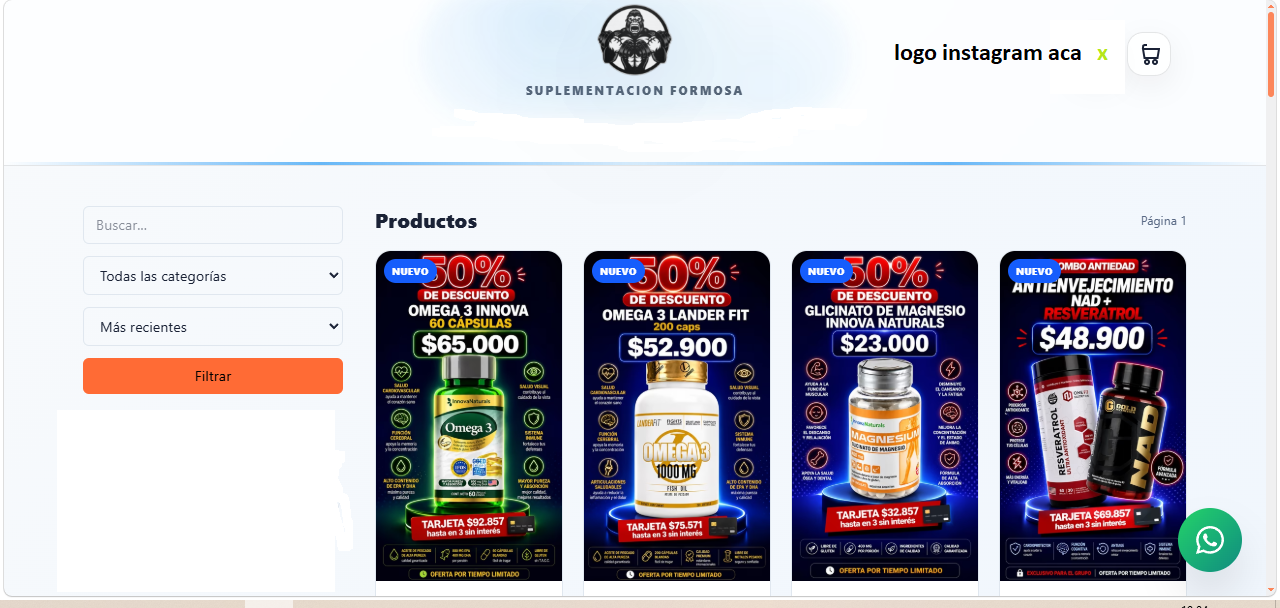
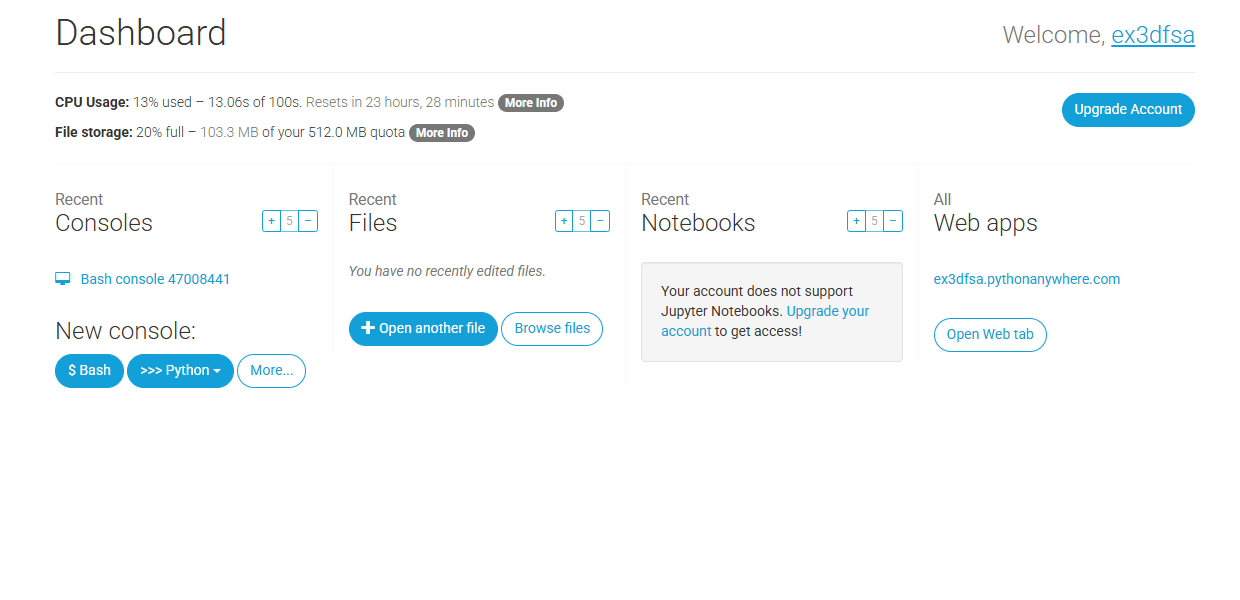
Add files via upload

diff --git a/templates/inventory.html b/templates/inventory.html
@@ -124,22 +124,15 @@
                                     </select>
                                 </div>
                             </div>
-                            <div class="col-md-3">
+                            <div class="col-md-9">
                                 <div class="form-group">
-                                    <label>{{ _('Umbral Descuento 10%') }}</label>
-                                    <input type="number" id="productDiscountThreshold5" class="form-control" min="1" value="5">
-                                </div>
-                            </div>
-                            <div class="col-md-3">
-                                <div class="form-group">
-                                    <label>{{ _('Umbral Descuento 15%') }}</label>
-                                    <input type="number" id="productDiscountThreshold10" class="form-control" min="1" value="10">
-                                </div>
-                            </div>
-                            <div class="col-md-3">
-                                <div class="form-group">
-                                    <label>{{ _('Umbral Descuento 20%') }}</label>
-                                    <input type="number" id="productDiscountThreshold25" class="form-control" min="1" value="25">
+                                    <label>{{ _('Reglas de Descuento (vacío = usar globales)') }}</label>
+                                    <div id="productDiscountsContainer">
+                                        <!-- Los descuentos se cargarán dinámicamente aquí -->
+                                    </div>
+                                    <button type="button" class="btn btn-sm btn-success mt-2" onclick="addProductDiscount()">
+                                        <i class="fas fa-plus"></i> {{ _('Agregar Regla') }}
+                                    </button>
                                 </div>
                             </div>
                         </div>
@@ -350,6 +343,9 @@
 document.getElementById('toggleNewProductForm').addEventListener('click', function() {
     const form = document.getElementById('newProductForm');
     form.style.display = form.style.display === 'none' ? 'block' : 'none';
+    if (form.style.display === 'block') {
+        clearProductDiscounts();
+    }
 });
 
 document.getElementById('toggleNewMaterialForm').addEventListener('click', function() {
@@ -485,9 +481,7 @@ document.getElementById('saveProductBtn').addEventListener('click', async functi
         images: productImages,
         materials: materials,
         enable_quantity_discounts: document.getElementById('productEnableDiscounts').value === 'true',
-        discount_threshold_5: parseInt(document.getElementById('productDiscountThreshold5').value) || 5,
-        discount_threshold_10: parseInt(document.getElementById('productDiscountThreshold10').value) || 10,
-        discount_threshold_25: parseInt(document.getElementById('productDiscountThreshold25').value) || 25
+        quantity_discounts_json: productDiscounts.length > 0 ? JSON.stringify(productDiscounts) : null
     };
     
     if (!productData.name || !productData.slicer_weight || !productData.print_time_hours) {
@@ -585,6 +579,54 @@ function loadCategories() {
         });
 }
 
+// Product Discounts Management
+let productDiscounts = [];
+
+function renderProductDiscounts() {
+    const container = document.getElementById('productDiscountsContainer');
+    container.innerHTML = '';
+    
+    productDiscounts.forEach((discount, index) => {
+        const div = document.createElement('div');
+        div.className = 'input-group mb-2';
+        div.innerHTML = `
+            <input type="number" class="form-control" placeholder="Cantidad" value="${discount.threshold}" 
+                   onchange="updateProductDiscount(${index}, 'threshold', this.value)" min="1">
+            <input type="number" class="form-control" placeholder="%" value="${discount.discount}" 
+                   onchange="updateProductDiscount(${index}, 'discount', this.value)" min="0" max="100">
+            <div class="input-group-text">
+                <input type="checkbox" ${discount.enabled ? 'checked' : ''} 
+                       onchange="updateProductDiscount(${index}, 'enabled', this.checked)">
+            </div>
+            <div class="input-group-append">
+                <button type="button" class="btn btn-danger" onclick="removeProductDiscount(${index})">
+                    <i class="fas fa-trash"></i>
+                </button>
+            </div>
+        `;
+        container.appendChild(div);
+    });
+}
+
+function addProductDiscount() {
+    productDiscounts.push({ threshold: '', discount: '', enabled: true });
+    renderProductDiscounts();
+}
+
+function updateProductDiscount(index, field, value) {
+    productDiscounts[index][field] = field === 'enabled' ? value : parseFloat(value);
+}
+
+function removeProductDiscount(index) {
+    productDiscounts.splice(index, 1);
+    renderProductDiscounts();
+}
+
+function clearProductDiscounts() {
+    productDiscounts = [];
+    renderProductDiscounts();
+}
+
 // Load products
 function loadProducts() {
     fetch('/api/products')
@@ -648,9 +690,18 @@ function editProduct(productId) {
             document.getElementById('productAdditional').value = product.additional_costs || 0;
             document.getElementById('productImageUrl').value = product.image_url || '';
             document.getElementById('productEnableDiscounts').value = product.enable_quantity_discounts ? 'true' : 'false';
-            document.getElementById('productDiscountThreshold5').value = product.discount_threshold_5 || 5;
-            document.getElementById('productDiscountThreshold10').value = product.discount_threshold_10 || 10;
-            document.getElementById('productDiscountThreshold25').value = product.discount_threshold_25 || 25;
+            
+            // Load product discounts
+            if (product.quantity_discounts_json) {
+                try {
+                    productDiscounts = JSON.parse(product.quantity_discounts_json);
+                } catch {
+                    productDiscounts = [];
+                }
+            } else {
+                productDiscounts = [];
+            }
+            renderProductDiscounts();
             
             // Show form
             document.getElementById('newProductForm').style.display = 'block';
@@ -689,9 +740,7 @@ async function updateProduct(productId) {
         images: productImages,
         materials: materials,
         enable_quantity_discounts: document.getElementById('productEnableDiscounts').value === 'true',
-        discount_threshold_5: parseInt(document.getElementById('productDiscountThreshold5').value) || 5,
-        discount_threshold_10: parseInt(document.getElementById('productDiscountThreshold10').value) || 10,
-        discount_threshold_25: parseInt(document.getElementById('productDiscountThreshold25').value) || 25
+        quantity_discounts_json: productDiscounts.length > 0 ? JSON.stringify(productDiscounts) : null
     };
     
     if (!productData.name || !productData.slicer_weight || !productData.print_time_hours) {

diff --git a/templates/config.html b/templates/config.html
@@ -50,24 +50,14 @@
                     <h5 class="mt-3">{{ _('Descuentos por Cantidad (Mayorista)') }}</h5>
                     
                     <div class="form-group">
-                        <label for="wholesaleDiscount5">{{ _('Descuento para +5 unidades (%)') }}</label>
-                        <input type="number" id="wholesaleDiscount5" class="form-control" min="0" step="1" 
-                               value="{{ config.wholesale_discount_5 }}" required>
-                        <small class="text-muted">Porcentaje de descuento para compras de 5 o más unidades</small>
-                    </div>
-                    
-                    <div class="form-group">
-                        <label for="wholesaleDiscount10">{{ _('Descuento para +10 unidades (%)') }}</label>
-                        <input type="number" id="wholesaleDiscount10" class="form-control" min="0" step="1" 
-                               value="{{ config.wholesale_discount_10 }}" required>
-                        <small class="text-muted">Porcentaje de descuento para compras de 10 o más unidades</small>
-                    </div>
-                    
-                    <div class="form-group">
-                        <label for="wholesaleDiscount25">{{ _('Descuento para +25 unidades (%)') }}</label>
-                        <input type="number" id="wholesaleDiscount25" class="form-control" min="0" step="1" 
-                               value="{{ config.wholesale_discount_25 }}" required>
-                        <small class="text-muted">Porcentaje de descuento para compras de 25 o más unidades</small>
+                        <label>{{ _('Reglas de Descuento') }}</label>
+                        <div id="wholesaleDiscountsContainer">
+                            <!-- Los descuentos se cargarán dinámicamente aquí -->
+                        </div>
+                        <button type="button" class="btn btn-sm btn-success mt-2" onclick="addWholesaleDiscount()">
+                            <i class="fas fa-plus"></i> {{ _('Agregar Regla de Descuento') }}
+                        </button>
+                        <small class="text-muted">{{ _('Configure descuentos por cantidad de productos (ej: 10+ unidades = 15% descuento)') }}</small>
                     </div>
                     
                     <hr>
@@ -358,11 +348,77 @@ function removeCategory(index) {
     }
 }
 
+// Wholesale Discounts Management
+let wholesaleDiscounts = [];
+
+function loadWholesaleDiscounts() {
+    try {
+        const configJson = '{{ config.wholesale_discounts_json | safe if config.wholesale_discounts_json else "" }}';
+        if (configJson) {
+            wholesaleDiscounts = JSON.parse(configJson);
+        } else {
+            wholesaleDiscounts = [
+                { threshold: 5, discount: 10, enabled: true },
+                { threshold: 10, discount: 15, enabled: true },
+                { threshold: 25, discount: 20, enabled: true }
+            ];
+        }
+    } catch (e) {
+        wholesaleDiscounts = [
+            { threshold: 5, discount: 10, enabled: true },
+            { threshold: 10, discount: 15, enabled: true },
+            { threshold: 25, discount: 20, enabled: true }
+        ];
+    }
+    renderWholesaleDiscounts();
+}
+
+function renderWholesaleDiscounts() {
+    const container = document.getElementById('wholesaleDiscountsContainer');
+    container.innerHTML = '';
+    
+    wholesaleDiscounts.forEach((discount, index) => {
+        const div = document.createElement('div');
+        div.className = 'input-group mb-2';
+        div.innerHTML = `
+            <input type="number" class="form-control" placeholder="Cantidad" value="${discount.threshold}" 
+                   onchange="updateWholesaleDiscount(${index}, 'threshold', this.value)" min="1">
+            <input type="number" class="form-control" placeholder="%" value="${discount.discount}" 
+                   onchange="updateWholesaleDiscount(${index}, 'discount', this.value)" min="0" max="100">
+            <div class="input-group-text">
+                <input type="checkbox" ${discount.enabled ? 'checked' : ''} 
+                       onchange="updateWholesaleDiscount(${index}, 'enabled', this.checked)">
+            </div>
+            <div class="input-group-append">
+                <button type="button" class="btn btn-danger" onclick="removeWholesaleDiscount(${index})">
+                    <i class="fas fa-trash"></i>
+                </button>
+            </div>
+        `;
+        container.appendChild(div);
+    });
+}
+
+function addWholesaleDiscount() {
+    wholesaleDiscounts.push({ threshold: '', discount: '', enabled: true });
+    renderWholesaleDiscounts();
+}
+
+function updateWholesaleDiscount(index, field, value) {
+    wholesaleDiscounts[index][field] = field === 'enabled' ? value : parseFloat(value);
+}
+
+function removeWholesaleDiscount(index) {
+    wholesaleDiscounts.splice(index, 1);
+    renderWholesaleDiscounts();
+}
+
 // Load data on page init
 document.addEventListener('DOMContentLoaded', function() {
     loadPrinters();
     loadPaymentMethods();
     loadCategories();
+    loadWholesaleDiscounts();
     
     // Config Form Submit
     const configForm = document.getElementById('configForm');
@@ -375,9 +431,7 @@ document.addEventListener('DOMContentLoaded', function() {
                 labor_hour_cost: parseFloat(document.getElementById('laborHourCost').value),
                 base_profit_margin: parseFloat(document.getElementById('baseProfitMargin').value),
                 fail_margin_multiplier: parseFloat(document.getElementById('failMarginMultiplier').value),
-                wholesale_discount_5: parseFloat(document.getElementById('wholesaleDiscount5').value),
-                wholesale_discount_10: parseFloat(document.getElementById('wholesaleDiscount10').value),
-                wholesale_discount_25: parseFloat(document.getElementById('wholesaleDiscount25').value),
+                wholesale_discounts_json: JSON.stringify(wholesaleDiscounts),
                 payment_methods_json: JSON.stringify(paymentMethods),
                 company_name: document.getElementById('companyName').value,
                 company_logo_url: document.getElementById('companyLogoUrl').value,

diff --git a/models.py b/models.py
@@ -3,6 +3,7 @@ from flask_login import UserMixin
 from datetime import datetime, timedelta
 from enum import Enum as PyEnum
 import bcrypt
+import json
 
 db = SQLAlchemy()
 
@@ -200,9 +201,7 @@ class Product(db.Model):
     image_url = db.Column(db.String(500), nullable=True)  # URL de imagen del producto
     retail_price = db.Column(db.Float, default=0.0)  # Precio minorista (precio base)
     enable_quantity_discounts = db.Column(db.Boolean, default=True)  # Habilitar descuentos por cantidad
-    discount_threshold_5 = db.Column(db.Integer, default=5)  # Umbral para descuento de 10%
-    discount_threshold_10 = db.Column(db.Integer, default=10)  # Umbral para descuento de 15%
-    discount_threshold_25 = db.Column(db.Integer, default=25)  # Umbral para descuento de 20%
+    quantity_discounts_json = db.Column(db.Text, nullable=True)  # Descuentos por cantidad personalizados (JSON)
     created_at = db.Column(db.DateTime, default=datetime.utcnow)
 
     materials = db.relationship('ProductMaterial', backref='product', cascade='all, delete-orphan')
@@ -272,12 +271,27 @@ class Product(db.Model):
         config = GlobalConfig.get_singleton()
         discount = 0.0
         
-        if quantity >= 25:
-            discount = config.wholesale_discount_25 or 20.0
-        elif quantity >= 10:
-            discount = config.wholesale_discount_10 or 15.0
-        elif quantity >= 5:
-            discount = config.wholesale_discount_5 or 10.0
+        # Si el producto tiene descuentos personalizados, usarlos
+        if self.quantity_discounts_json:
+            try:
+                product_discounts = json.loads(self.quantity_discounts_json)
+                for rule in sorted(product_discounts, key=lambda x: x.get('threshold', 0), reverse=True):
+                    if quantity >= rule.get('threshold', 0) and rule.get('enabled', True):
+                        discount = rule.get('discount', 0)
+                        break
+            except:
+                pass
+        
+        # Si no tiene descuentos personalizados o no se encontró ninguno, usar los globales
+        if discount == 0.0 and config.wholesale_discounts_json:
+            try:
+                global_discounts = json.loads(config.wholesale_discounts_json)
+                for rule in sorted(global_discounts, key=lambda x: x.get('threshold', 0), reverse=True):
+                    if quantity >= rule.get('threshold', 0) and rule.get('enabled', True):
+                        discount = rule.get('discount', 0)
+                        break
+            except:
+                pass
         
         return round(base_price * (1 - discount / 100.0), 2)
 
@@ -402,9 +416,7 @@ class GlobalConfig(db.Model):
     labor_hour_cost = db.Column(db.Float, default=15.0)  # $ por hora de trabajo
     base_profit_margin = db.Column(db.Float, default=150.0)  # Porcentaje de ganancia base
     fail_margin_multiplier = db.Column(db.Float, default=1.05)  # Factor de recargo por riesgo
-    wholesale_discount_5 = db.Column(db.Float, default=10.0)  # Descuento para +5 unidades (%)
-    wholesale_discount_10 = db.Column(db.Float, default=15.0)  # Descuento para +10 unidades (%)
-    wholesale_discount_25 = db.Column(db.Float, default=20.0)  # Descuento para +25 unidades (%)
+    wholesale_discounts_json = db.Column(db.Text, default='[{"threshold": 5, "discount": 10, "enabled": true}, {"threshold": 10, "discount": 15, "enabled": true}, {"threshold": 25, "discount": 20, "enabled": true}]')  # Descuentos por cantidad (JSON)
     payment_methods_json = db.Column(db.Text, default='["Efectivo", "Mercado Pago", "Transferencia"]')  # Métodos de pago (JSON)
     company_name = db.Column(db.String(100), default='3D System')  # Nombre de la empresa
     company_logo_url = db.Column(db.String(500), nullable=True)  # URL del logo de la empresa

diff --git a/routes.py b/routes.py
@@ -514,9 +514,7 @@ def api_products_create():
             additional_costs=data.get('additional_costs', 0),
             image_url=data.get('image_url'),
             enable_quantity_discounts=data.get('enable_quantity_discounts', True),
-            discount_threshold_5=data.get('discount_threshold_5', 5),
-            discount_threshold_10=data.get('discount_threshold_10', 10),
-            discount_threshold_25=data.get('discount_threshold_25', 25)
+            quantity_discounts_json=data.get('quantity_discounts_json')
         )
         
         db.session.add(product)
@@ -580,9 +578,7 @@ def api_products_update(product_id):
         product.additional_costs = data.get('additional_costs', product.additional_costs)
         product.image_url = data.get('image_url', product.image_url)
         product.enable_quantity_discounts = data.get('enable_quantity_discounts', product.enable_quantity_discounts)
-        product.discount_threshold_5 = data.get('discount_threshold_5', product.discount_threshold_5)
-        product.discount_threshold_10 = data.get('discount_threshold_10', product.discount_threshold_10)
-        product.discount_threshold_25 = data.get('discount_threshold_25', product.discount_threshold_25)
+        product.quantity_discounts_json = data.get('quantity_discounts_json')
         
         # Handle multiple materials
         materials_data = data.get('materials', [])
@@ -1221,12 +1217,8 @@ def api_config_update():
             config.base_profit_margin = data['base_profit_margin']
         if 'fail_margin_multiplier' in data:
             config.fail_margin_multiplier = data['fail_margin_multiplier']
-        if 'wholesale_discount_5' in data:
-            config.wholesale_discount_5 = data['wholesale_discount_5']
-        if 'wholesale_discount_10' in data:
-            config.wholesale_discount_10 = data['wholesale_discount_10']
-        if 'wholesale_discount_25' in data:
-            config.wholesale_discount_25 = data['wholesale_discount_25']
+        if 'wholesale_discounts_json' in data:
+            config.wholesale_discounts_json = data['wholesale_discounts_json']
         if 'payment_methods_json' in data:
             config.payment_methods_json = data['payment_methods_json']
         if 'company_name' in data:
